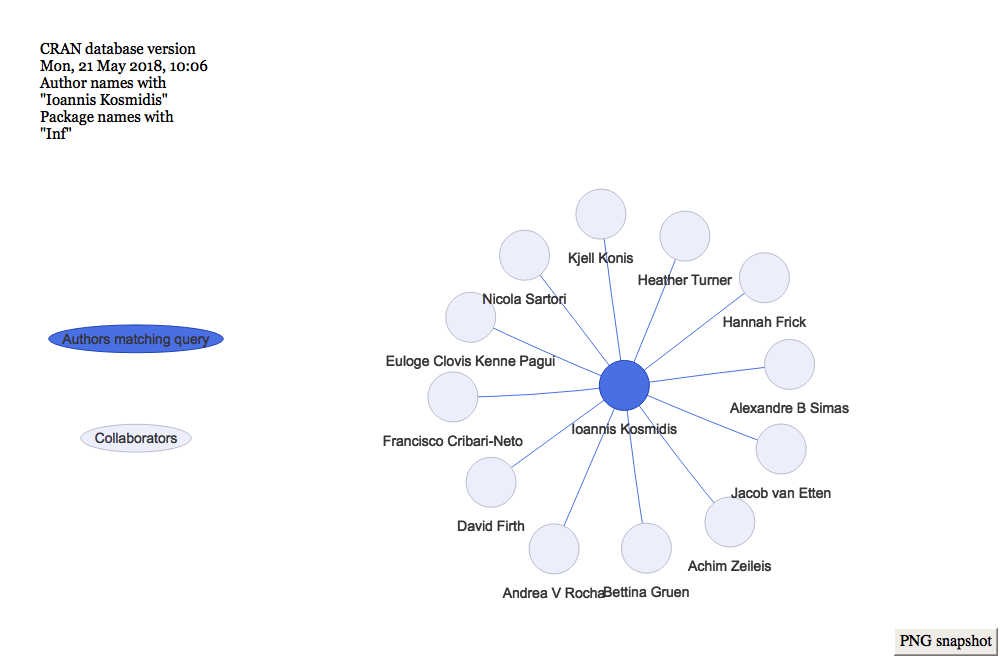
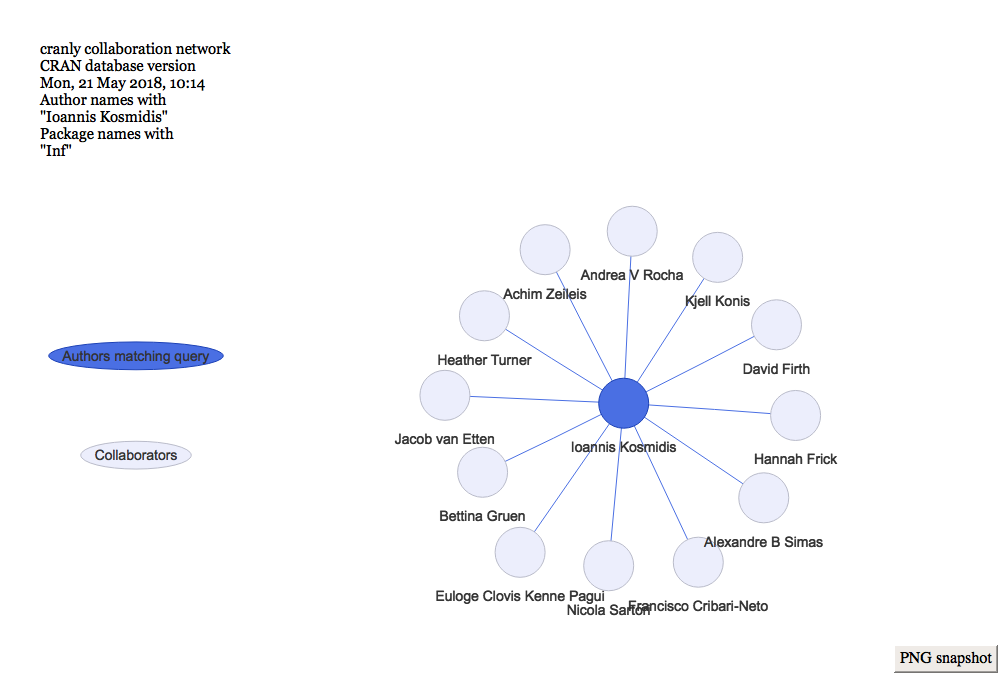
README updates

diff --git a/README.md b/README.md
@@ -51,7 +51,7 @@ The CRAN database we use is from
 
 ``` r
 attr(package_db, "timestamp")
-#> [1] "2018-05-21 10:06:58 BST"
+#> [1] "2018-05-21 10:14:23 BST"
 ```
 
 #### Package directives networks
